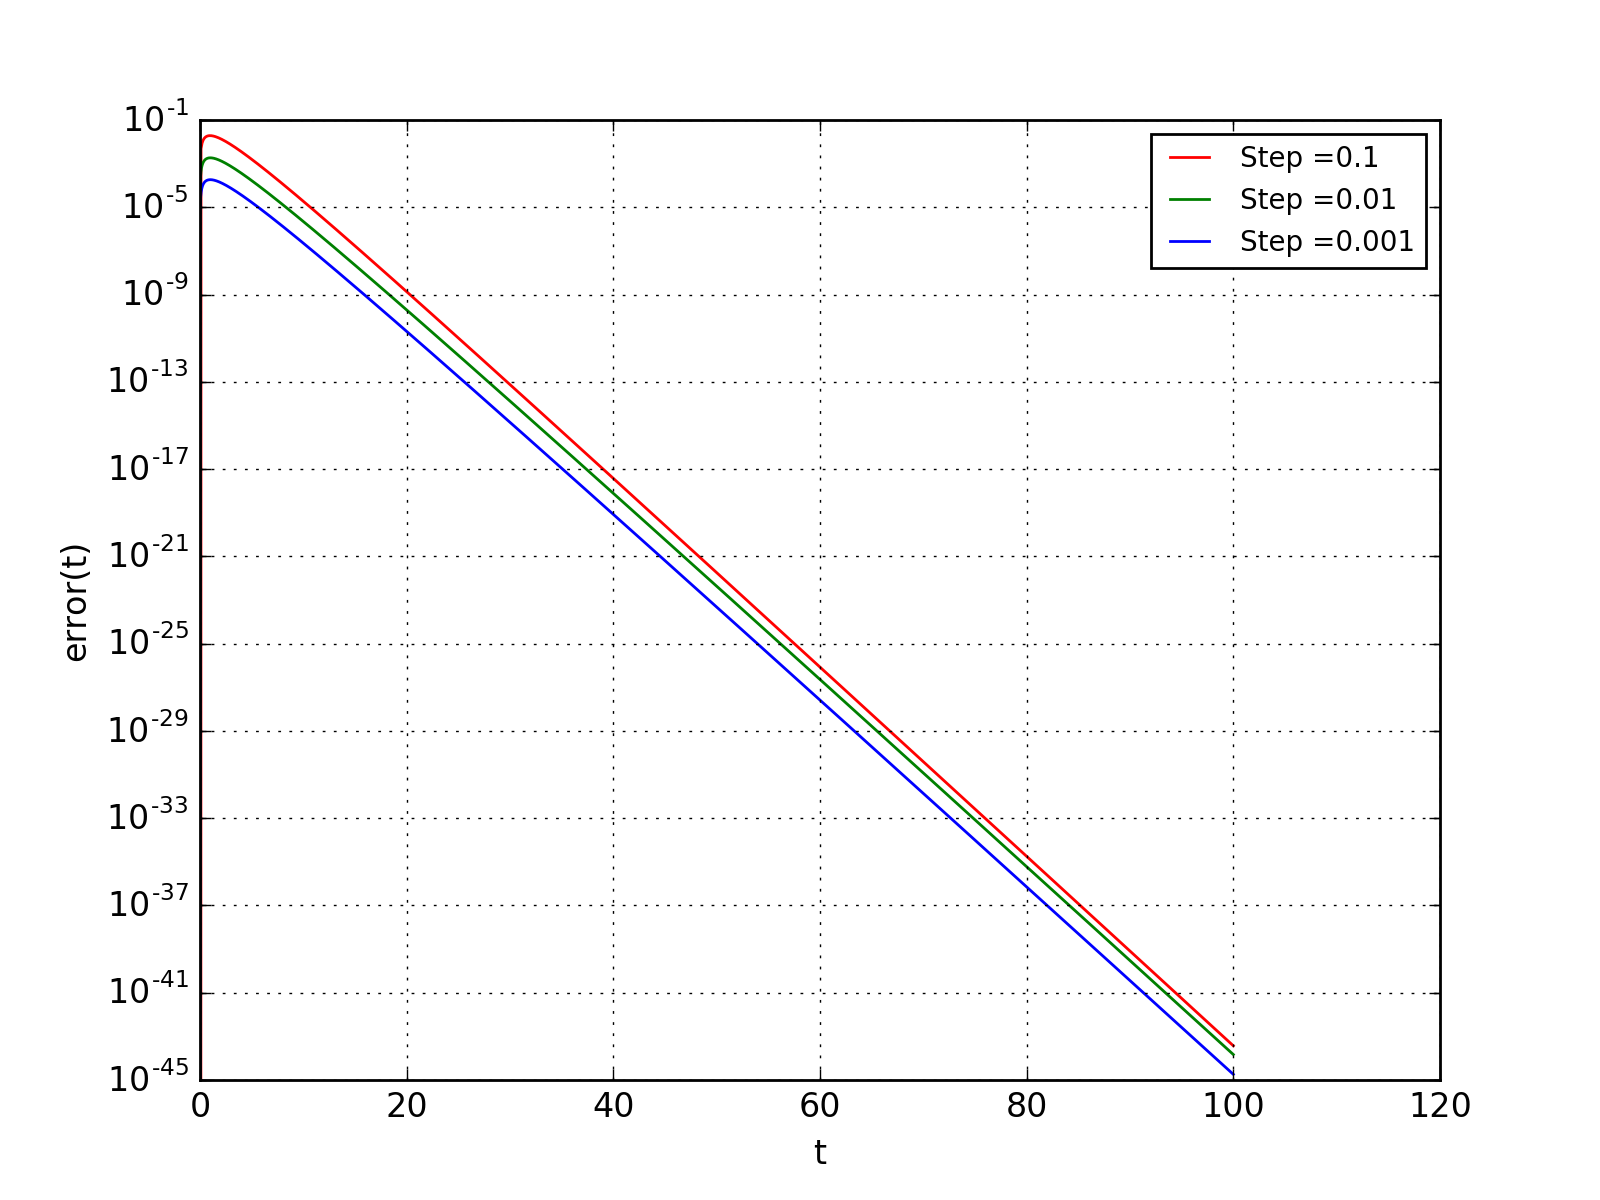
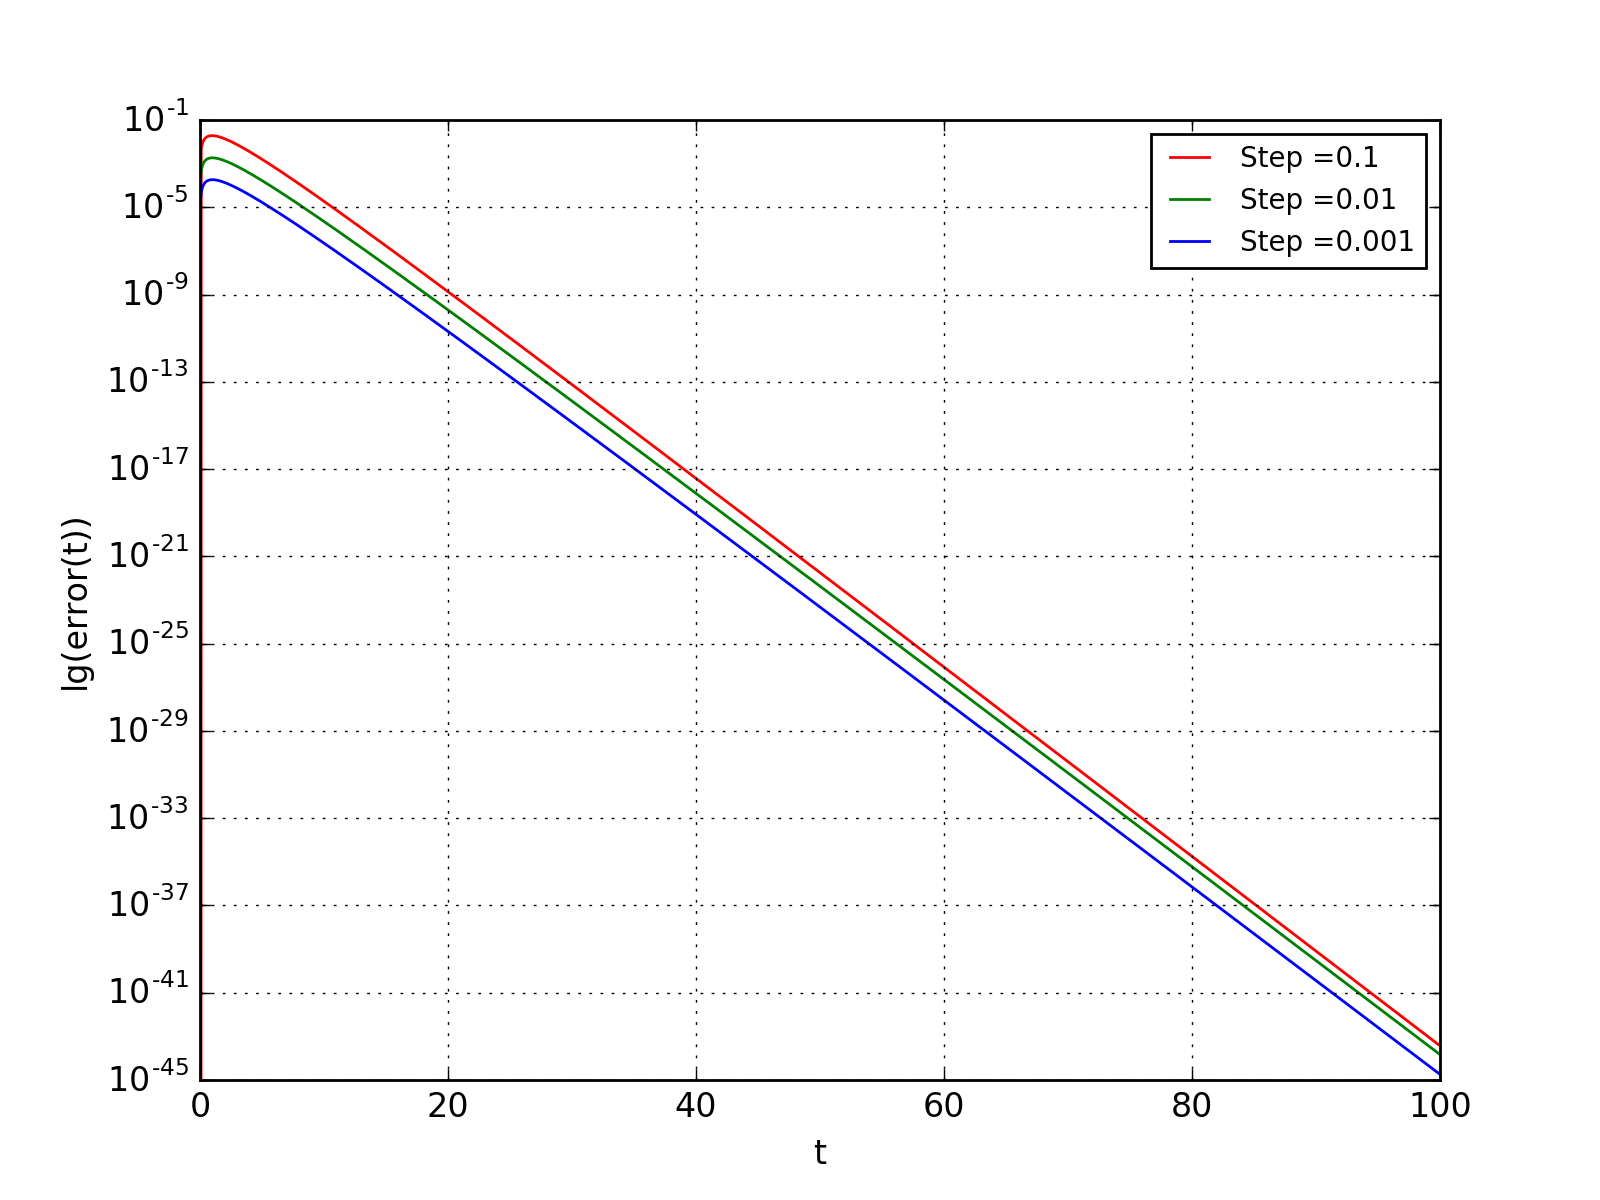
Add report for lab3

diff --git a/reports/report3.tex b/reports/report3.tex
@@ -1,0 +1,119 @@
+\documentclass[a4paper]{article}
+\usepackage{fontspec}
+\usepackage[russian]{babel}
+\usepackage{listings}
+\usepackage[a4paper]{geometry}
+\usepackage{indentfirst}
+\usepackage{graphicx}
+\usepackage{caption}
+\usepackage{float}
+
+\setmainfont{CMU Serif}
+\setsansfont{CMU Sans Serif}
+
+\begin{document}
+
+\title{Лабораторная работа 3 по курсу <<Нелинейная динамика и её приложения>>. \\Отчёт.}
+\author{Владислав Соврасов\\ 381503м4}
+\date{}
+\maketitle
+
+\section{Численное интегрирование уравнений методом Эйлера с постоянным шагом}
+Пусть необходимо решить численно уравнение вида \(\dot x(t)=f(x,t)\) с начальным
+условием \(x(0)=x_0\). \(x(t)\) и \(f(x,t)\) в рассматриваемом уравнении могут быть,
+вообще говоря, вектор-функциями. Метод Эйлера имеет простую вычислительную формулу:
+\begin{displaymath}
+	x_{n+1}=x_n+hf(x_n, h\cdot n),n=\overline{0,s},
+\end{displaymath}
+где \(h>0\) --- шаг метода.
+
+Рассмотрим работу метода на примере интегрирования уравнений \(\dot x(t) = \pm x, x(0)=1\).
+В случае положительной правой части решением уравенения является функция \(x(t)=e^x\).
+Метод Эйлера при решении этого уравнения строит последоввательность, которая растёт
+как геометрическая прогрессия со знаменателем \(h+1\), в то время, как
+последовательность значений функции-решения в узлах сетки является
+геометрической прогрессией со знаменателем \(e^h\). \(e^h - 1 - h = h^2/2 + O(h^3)>0\)
+прим малом \(h\), поэтому разность между численным и истинным решениями на сетке
+будет расти также как геометрическая прогрессия, т.е. экспоненциально. Этот эффект
+виден на рис. \ref{fig:euler_exp_plus}.
+В случае решения уравнения \(\dot x(t) = - x, x(0)=1\) верны те же самые рассуждения,
+но прогрессия здесь будет убывающей (рис. \ref{fig:euler_exp_minus}).
+
+Из рис. \ref{fig:euler_exp_plus}, \ref{fig:euler_exp_minus} также видно, что метод
+Эйлера имеет первый порядок сходимости: при уменьшении шага в 10 раз ошибка интегрирования
+на отрезке падает примерно в 10 раз.
+
+Далее рассмотрим интегрирование уравнения второго порядка: \(\ddot x + x=0\) при
+начальных условиях \(x(0)=1,\dot x(0)=0\). Это уравнение после введения фазовой скорости
+\(y(t)=\dot x(t)\) эквивалентно системе:
+\begin{displaymath}
+	\left\{
+  \begin{array}{lr}
+    \dot x = y\\
+    \dot y = -x
+  \end{array}
+\right.
+\end{displaymath}
+
+Эту систему можно решать методом Эйлера. В качестве ошибки интегрирования рассматривается
+абсолютная разность численного и настоящего решений по координате \(x\). Решением
+исходного уравнения при заданных начальных условиях является функция \(x(t)=cos(t)\). Как видно
+из рис. \ref{fig:euler_system}, ошибка похожа на периодическую функцию, однако со временем
+нарастает. Минимумы этой функции соответствуют нулям решения \(x(t)=cos(t)\). Как и на
+предыдущих графиках, здесь также подтверждается первый порядок сходимости метода
+Эйлера.
+
+\begin{figure}[H]
+	\center
+	\includegraphics[width=0.75\textwidth]{../pictures/lab3_exp_plus.png}
+	\caption{Ошибка интегрирования уравнения \(\dot x(t) = x\) при различных значениях шага}
+	\label{fig:euler_exp_plus}
+\end{figure}
+
+\begin{figure}[H]
+	\center
+	\includegraphics[width=0.75\textwidth]{../pictures/lab3_exp_minus.png}
+	\caption{Ошибка интегрирования уравнения \(\dot x(t) = -x\) при различных значениях шага}
+	\label{fig:euler_exp_minus}
+\end{figure}
+
+\begin{figure}[H]
+	\center
+  \includegraphics[width=0.75\textwidth]{../pictures/lab3_cons_system.png}
+  \caption{Ошибка интегрирования уравнения \(\ddot x(t) +x = 0\) при различных значениях шага}
+  \label{fig:euler_system}
+\end{figure}
+
+\section{Численное интегрирование системы Рёсслера методом Рунге-Кутты с постоянным шагом}
+
+Рассмотрим систему из трёх уравнений:
+\begin{displaymath}
+	\left\{
+  \begin{array}{lr}
+    \dot x = -y - z\\
+		\dot y = x + 0.3y \\
+    \dot z = 0.3 + (x-5.7)z
+  \end{array}
+\right.
+\end{displaymath}
+при начальных условиях \(x(0)=1,y(0)=0,z(0)=100\).
+
+Для численного решения этой системы применялся метод Рунге-Кутты 4го порядка с
+постоянным шагом. Точное решение неизвестно, поэтому для оценки ошибки интегрирования
+использовалось численное решение, полученное тем же методом, но с вдвое меньшим шагом.
+На рис. \ref{fig:rossler_system} показана разность численных решений по норме \(L1\).
+Из графика виден четвёртый порядок сходимости метода, а также то, что ошибка интегрирования
+изменяется сначала хаотично, а потом становится похожей на периодическую функцию.
+
+\begin{figure}[H]
+	\center
+	\includegraphics[width=0.75\textwidth]{../pictures/lab3_rossler_system.png}
+	\caption{Ошибка интегрирования системы Рёсслера при различных значениях шага}
+	\label{fig:rossler_system}
+\end{figure}
+
+
+\section{Исходный код}
+\lstinputlisting[language=Python, numbers=left]{../scripts/lab3.py}
+
+\end{document}

diff --git a/scripts/lab3.py b/scripts/lab3.py
@@ -5,7 +5,7 @@ import numpy as np
 import matplotlib.pyplot as plt
 
 def eulerMethod(f, a, b, f_0, step):
-    numSteps = int((b - a) / step)
+    numSteps = int((b - a) / step - 0.5)
 
     xValues = [0.]*(numSteps + 1)
     tValues = [0.]*(numSteps + 1)
@@ -19,7 +19,7 @@ def eulerMethod(f, a, b, f_0, step):
     return tValues, xValues
 
 def rungeKuttaMethod(f, a, b, f_0, step):
-    numSteps = int((b - a) / step)
+    numSteps = int((b - a) / step - 0.5)
 
     xValues = [0.]*(numSteps + 1)
     tValues = [0.]*(numSteps + 1)
@@ -37,13 +37,12 @@ def rungeKuttaMethod(f, a, b, f_0, step):
 
     return tValues, xValues
 
-def plotError(steps, tValues, errValues, outputName, isLogYAxis=False):
+def plotError(steps, tValues, errValues, outputName):
     colors = ['r', 'g', 'b', 'c']
 
     plt.xlabel('t')
-    plt.ylabel('error(t)')
-    if isLogYAxis:
-        plt.yscale('log')
+    plt.ylabel('lg(error(t))')
+    plt.yscale('log')
 
     for i, step in enumerate(steps):
         plt.plot(tValues[i], errValues[i], \
@@ -66,7 +65,7 @@ def main():
         errValues.append(np.abs(xValues - np.exp(timeGrid)))
         tValues.append(np.array(timeGrid))
 
-    plotError(steps, tValues, errValues, '../pictures/lab3_exp_plus.png', True)
+    plotError(steps, tValues, errValues, '../pictures/lab3_exp_plus.png')
 
     f = lambda x, t: -x
 
@@ -77,7 +76,7 @@ def main():
         errValues.append(np.abs(xValues - np.exp(-np.array(timeGrid))))
         tValues.append(np.array(timeGrid))
 
-    plotError(steps, tValues, errValues, '../pictures/lab3_exp_minus.png', True)
+    plotError(steps, tValues, errValues, '../pictures/lab3_exp_minus.png')
 
     f = lambda x, t: np.array([x[1], -x[0]])
 
@@ -85,22 +84,27 @@ def main():
     errValues = []
     for i, step in enumerate(steps):
         timeGrid, xValues = eulerMethod(f, 0., 20., np.array([1.,0.]), step)
-        errValues.append(np.abs(np.array(xValues)[:,0] - np.cos(np.array(timeGrid))))
+        errValues.append(np.abs(np.array(xValues)[:,0] \
+            - np.cos(np.array(timeGrid))))
         tValues.append(np.array(timeGrid))
 
     plotError(steps, tValues, errValues, '../pictures/lab3_cons_system.png')
 
-    f = lambda x, t: np.array([-x[1] - x[2], x[0] + 0.3*x[1], 0.3 + (x[0] - 5.7)*x[2]])
+    f = lambda x, t: np.array([-x[1] - x[2], x[0] + 0.3*x[1], \
+        0.3 + (x[0] - 5.7)*x[2]])
 
     tValues = []
     errValues = []
     for i, step in enumerate(steps):
-        timeGrid, xValues = rungeKuttaMethod(f, 0., 100., np.array([1.,0., 1.]), step)
-        _, xValues2 = rungeKuttaMethod(f, 0., 100., np.array([1.,0., 1.]), step / 2.)
-        errValues.append(np.sum(np.abs(np.array(xValues) - np.array(xValues2)[::2]), axis=1))
+        timeGrid, xValues = \
+            rungeKuttaMethod(f, 0., 100., np.array([1.,0., 100.]), step)
+        _, xValues2 =  \
+            rungeKuttaMethod(f, 0., 100., np.array([1.,0., 100.]), step / 2.)
+        errValues.append(np.sum(np.abs(np.array(xValues) - \
+            np.array(xValues2)[::2]), axis=1))
         tValues.append(np.array(timeGrid))
 
-    plotError(steps, tValues, errValues, '../pictures/lab3_rossler_system.png', True)
+    plotError(steps, tValues, errValues, '../pictures/lab3_rossler_system.png')
 
 if __name__ == '__main__':
     main()
